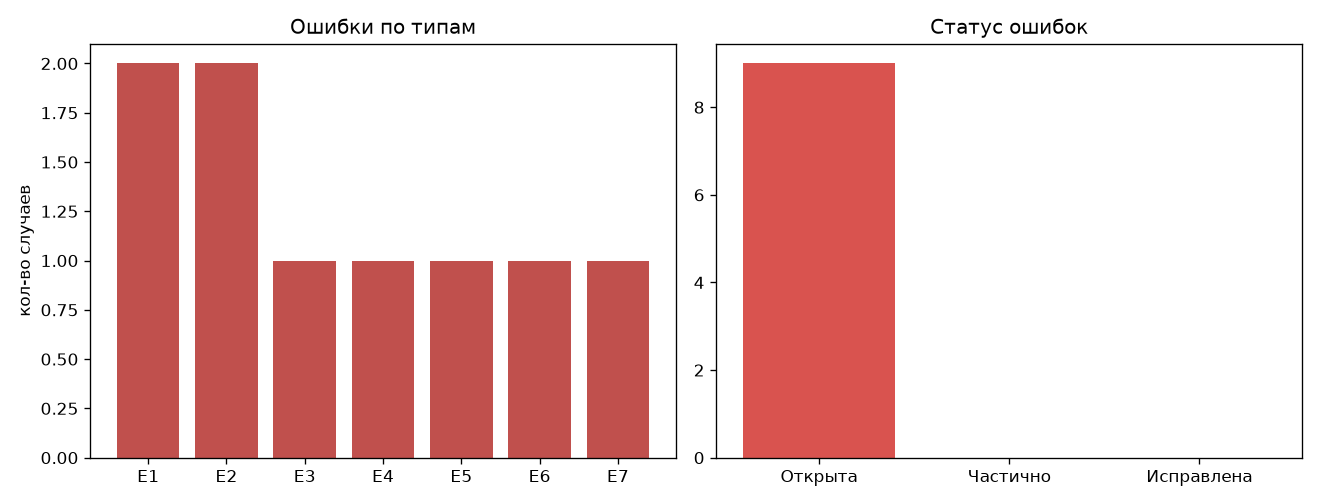
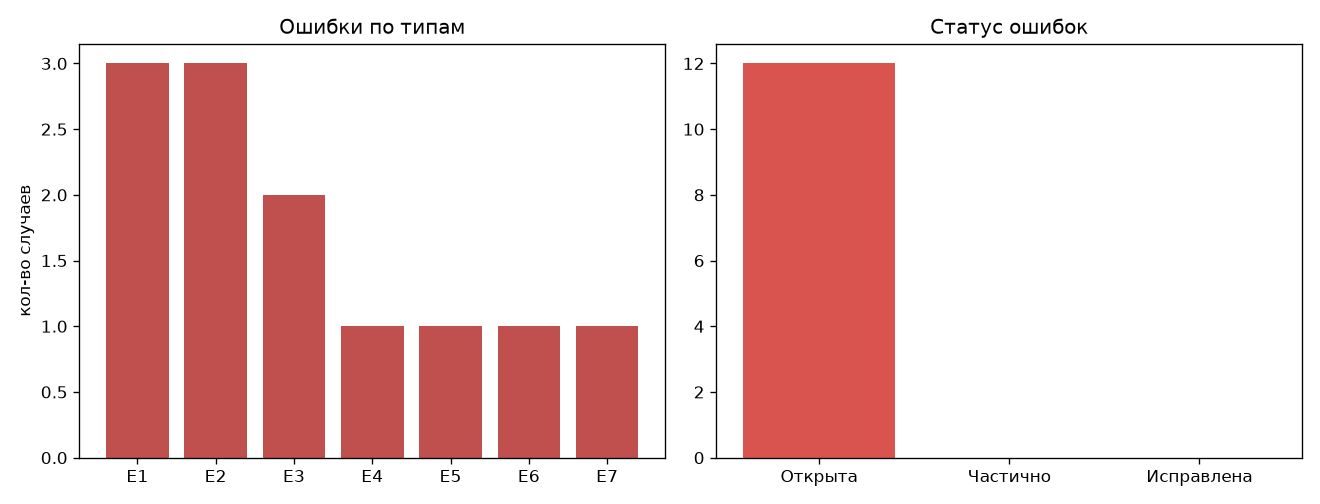
docs(ml): run-003 tiny RTF=3.85, галлюцинации; вывод: whisper.cpp тупик, переход на sherpa-onnx

diff --git a/docs/runs/run-003.md b/docs/runs/run-003.md
@@ -1,0 +1,36 @@
+# Прогон 003 — ggml-tiny (коммит 545a3fb)
+
+## Параметры
+- Модель: ggml-tiny.bin (~78 МБ), whisper.cpp JNI, flash_attn, 8 потоков
+- Устройство: Samsung SM-S938B, CPU
+- Запись: 25 600 мс (живая речь с микрофона телефона), 00:28:27
+
+## Замеры
+- Инференс: 98 457 мс → **RTF = 3.85** (лучше base в 1.5 раза, цель <1 не достигнута)
+
+## Транскрипт (logcat)
+```
+SEG	0	25600	Шпакышной быть. Я твой род не был, я делал, делал. Делал двух. А ты ченел. Я твой взял, я твой подпон. Плэк, ты что? Я твой педичайный. А этот громкий громкий громкий. Не педича, бы нормально, чтобы он поняла, чтобы он был. Вони педича. Я буду тебе за меня, рожь, его не мысом. Шу, как лет, как лет, как лет, как лет.
+```
+1 реплика [0..25600 мс] на всю запись.
+
+## Разбор ошибок
+1. **E1 Скорость**: RTF 3.85 — tiny в 4.3 раза быстрее small, но до цели <1
+   ещё ×3.9. whisper.cpp на CPU телефона упёрся.
+2. **E3 Галлюцинации — катастрофа**: текст почти полностью бессмысленный
+   («Шпакышной», «педичайный», «подпон»). Повторы «как лет, как лет, как лет»
+   и «громкий громкий громкий» — классическая петля tiny на шуме/тишине.
+   Качество недопустимое: tiny на русском живой речи не тянет.
+3. **E2 Потеря речи / сегментация**: снова один сегмент на всю запись —
+   whisper не дробит на реплики без VAD; таймкоды бесполезны (0–25600).
+4. **E5/E6**: спикеров и точных границ нет по той же причине.
+
+## Вывод
+**Whisper-семейство на CPU SM-S938B тупиковое**: small RTF 16.4 → base 5.9 →
+tiny 3.85, а качество при этом падает до галлюцинаций. RTF<1 и читаемый текст
+одновременно whisper.cpp на этом железе не даст.
+
+Решение: **переход на sherpa-onnx стек из main** (коммит 49c71e9): Zipformer/
+GigaAM int8 быстрее Whisper на ARM в разы, плюс диаризация (pyannote + 3D-Speaker)
+и VAD из коробки — закрывает E1, E2, E5, E6 одновременно. Наш whisper.cpp JNI
+остаётся в истории ветки как проверенный тупиковый путь с измерениями.

diff --git a/docs/analysis/ERROR_ANALYSIS.md b/docs/analysis/ERROR_ANALYSIS.md
@@ -29,6 +29,9 @@
 | 7 | E5 | все прогоны | диаризация не реализована в whisper.cpp-стеке | Открыта | sherpa-onnx pyannote+3D-Speaker (есть в main) |
 | 8 | E6 | run-002 | единственный сегмент 0–7000 мс, границы грубые | Открыта | word timestamps / VAD |
 | 9 | E7 | ПК-тест denoise | белый 0 дБ: WER 0.277→0.231; гул 5 дБ: 0.108→0.123 (be8aad9) | Частично закрыта | защитные правила SNR в denoise.py |
+| 10 | E1 | run-003 | RTF=3.85 (tiny, logcat телефона) | Открыта | sherpa-onnx Zipformer/GigaAM |
+| 11 | E3 | run-003 | текст почти сплошь бессмысленный, петли «как лет»×4, «громкий»×3 (logcat) | Открыта | tiny не тянет русский → смена стека |
+| 12 | E2 | run-003 | 1 сегмент 0–25600 на всю запись (logcat) | Открыта | VAD (есть в sherpa-onnx) |
 
 ## Что уже исправлено и проверено
 

diff --git a/docs/runs/README.md b/docs/runs/README.md
@@ -16,6 +16,10 @@
 |---|---|---|---|---|---|---|---|
 | [run-001](run-001.md) | ggml-small | 09709dc | 31 488 | 517 773 | 16.44 | 2 | Скорость; мусорные токены; потеря речи |
 | [run-002](run-002.md) | ggml-base | cf1d643 | 13 568 | 79 829 | 5.88 | 1 | Скорость; потеря речи (1 реплика на 13.5 с) |
-| run-003 | ggml-tiny | 545a3fb | TODO | TODO | TODO | TODO | Ожидает прогона |
+| [run-003](run-003.md) | ggml-tiny | 545a3fb | 25 600 | 98 457 | 3.85 | 1 | Галлюцинации tiny на русской речи; петли повторов |
+
+**Итог серии**: whisper.cpp на CPU телефона не даёт одновременно RTF<1 и
+читаемый текст (16.44 → 5.88 → 3.85 при падении качества до бессмыслицы).
+Решение — переход на sherpa-onnx стек из main (Zipformer/GigaAM + диаризация).
 
 ![RTF по прогонам](../img/runs_rtf.png)
